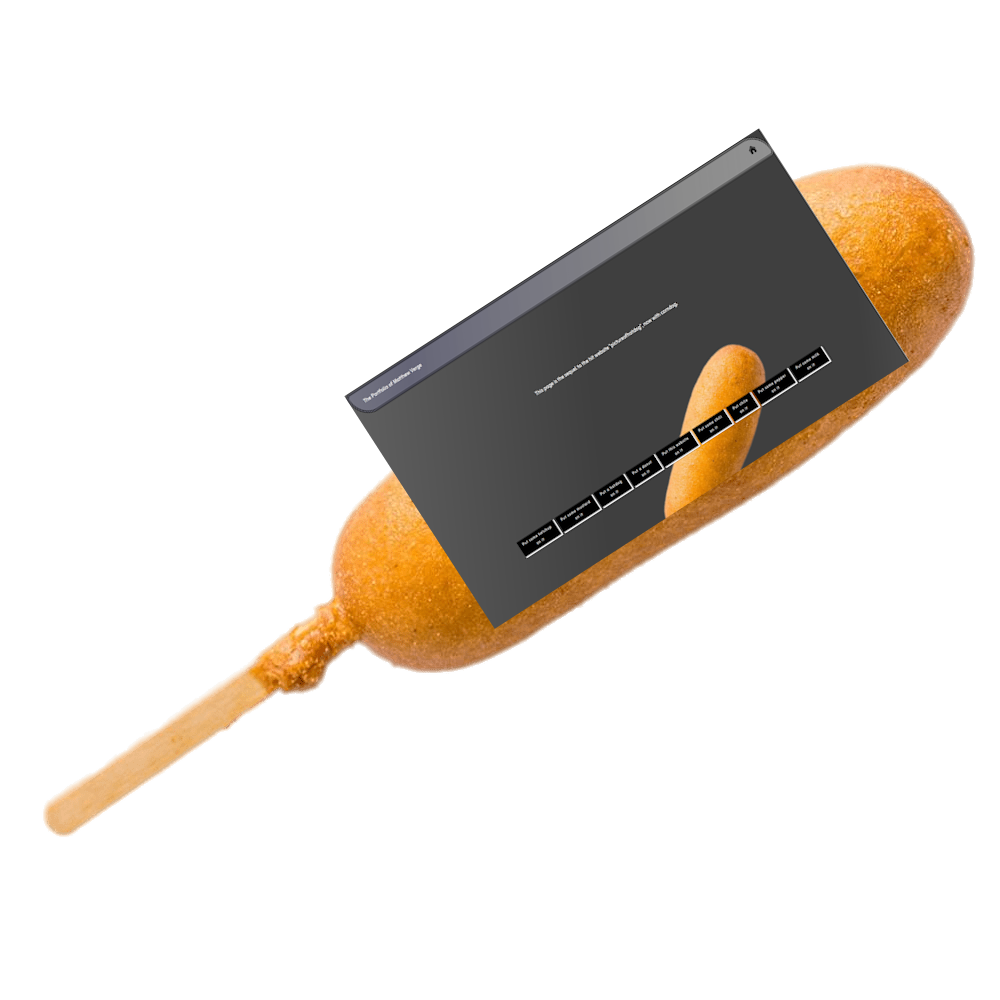
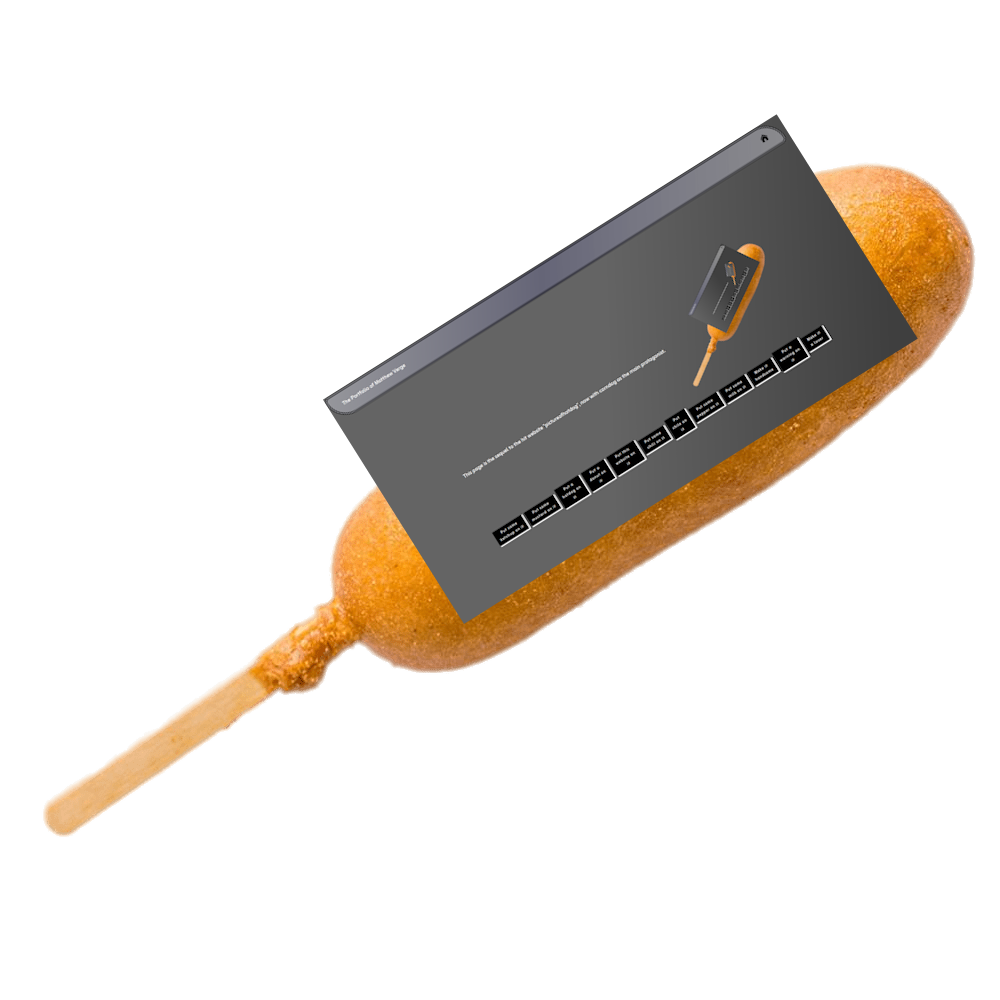
added more corndog options, fixed css to work on different devices

Changed region(s): [[0.31, 0.124, 0.93, 0.62]]

diff --git a/index.css b/index.css
@@ -19,12 +19,19 @@ body{
     
   }
 
+
+
+.textAlign{
+  text-align: center;
+}
+
+
 .header{
     animation: wave 25s ease-in-out infinite;
     align-self: flex-start;
     background: linear-gradient(300deg, #a1a1a1, #d1d1d186, #656577, #abacab);
     background-size: 200% 200%;
-    width: 1880px;
+    width: 99%;
     display: flex;
     align-items: center;
     justify-content: center;
@@ -33,13 +40,13 @@ body{
 }
 
 .header p{
-  margin-right: 1500px;
+  margin-right: 81%;
   color: white;
 }
 
 .containerBox{
-  width: 1400px;
-  height: 400px;
+  width: 75%;
+  height: 33%;
   background-color: rgba(0, 0, 0, 0);
   margin: 10px;
   display: flex;
@@ -47,24 +54,24 @@ body{
   align-items: center;
   flex-wrap: wrap;
   margin: 0 auto;
-  margin-top: 200px;
+  margin-top: 130px;
 }
 
 .containerBoxNone{
-  width: 1400px;
-  height: 400px;
+  width: 75%;
+  height: 33%;
   background-color: rgba(0, 0, 0, 0);
   margin: 10px;
   display: flex;
   justify-content: center;
   align-items: center;
   margin: 0 auto;
-  margin-top: 200px;
+  margin-top: 100px;
 }
 
 .containerBox2{
-  width: 1400px;
-  height: 400px;
+  width: 75%;
+  height: 33%;
   background-color: rgba(0, 0, 0, 0);
   margin: 10px;
   display: flex;
@@ -72,12 +79,12 @@ body{
   justify-content: center;
   align-items: center;
   margin: 0 auto;
-  margin-top: 200px;
+  margin-top: 100px;
 }
 
 .containerBox3{
-  width: 1400px;
-  height: 100px;
+  width: 75%;
+  height: .6%;
   background-color: rgba(0, 0, 0, 0);
   margin: 10px;
   display: flex;
@@ -117,7 +124,7 @@ body{
 
 
 .infoBox{
-  width: 150px;
+  width: 12%;
   height: 150px;
   background-color: rgba(32, 32, 32, 0.603);
   margin: 90px;

diff --git a/hotdog.html b/hotdog.html
@@ -18,7 +18,7 @@
     
     <div class="containerBoxNone">
 
-        <p>This page is the sequel to the hit website "pictureofhotdog", now with corndog as the main protagonist.</p>
+
         <img src="./corndogImages/corndog.png" id="corndog" width="500" height="500"></img>
         
     </div>
@@ -34,7 +34,18 @@
         <button id="milk"    onclick="milk()">Put some milk on it</button>
         <button id="beauty"  onclick="beauty()">Make it handsome</button>
         <button id="patch"   onclick="patch()">Put a warning on it</button>
+        <button id="loser"   onclick="loser()">Make it a loser</button>
+
+
+
+
+        
     </div>
+    <div class="textAlign">
+        <p>This page is the sequel to the hit website "pictureofhotdog", now with corndog as the main protagonist.</p>
+        <p>This is the DOM manipulation feature of my portoflio.</p>
+    </div>
+    
 
     <script src="./scripts/script.js"></script>
 </body>

diff --git a/skills.html b/skills.html
@@ -16,7 +16,9 @@
     </header>
     
     <div class="containerBox">
-        <p>I am a junior developer in Python and Javascript, with an intermediate level of skill in Godot's proprietary language, GDScript.</p>
+        <p>I am a junior developer in Python and Javascript, with an intermediate level of skill in Godot's proprietary language, GDScript.<br/>
+            If this website is not a good indicator, I am also well versed with HTML and CSS. I will never voluntarily learn any of the C family of languages.
+        </p>
     </div>
 </body>
 </html>

diff --git a/scripts/script.js b/scripts/script.js
@@ -35,6 +35,9 @@ document.addEventListener("DOMContentLoaded", () => {
 
     images["patch"] = new Image();
     images["patch"].src = "./corndogImages/corndog_patch.png";
+
+    images["loser"] = new Image();
+    images["loser"].src = "./corndogImages/corndog_loser.png";
 });
 
 
@@ -83,5 +86,9 @@ function beauty() {
 
 function patch() {
     document.getElementById("corndog").src = images["patch"].src;
+}
+
+function loser() {
+    document.getElementById("corndog").src = images["loser"].src;
 }
 
